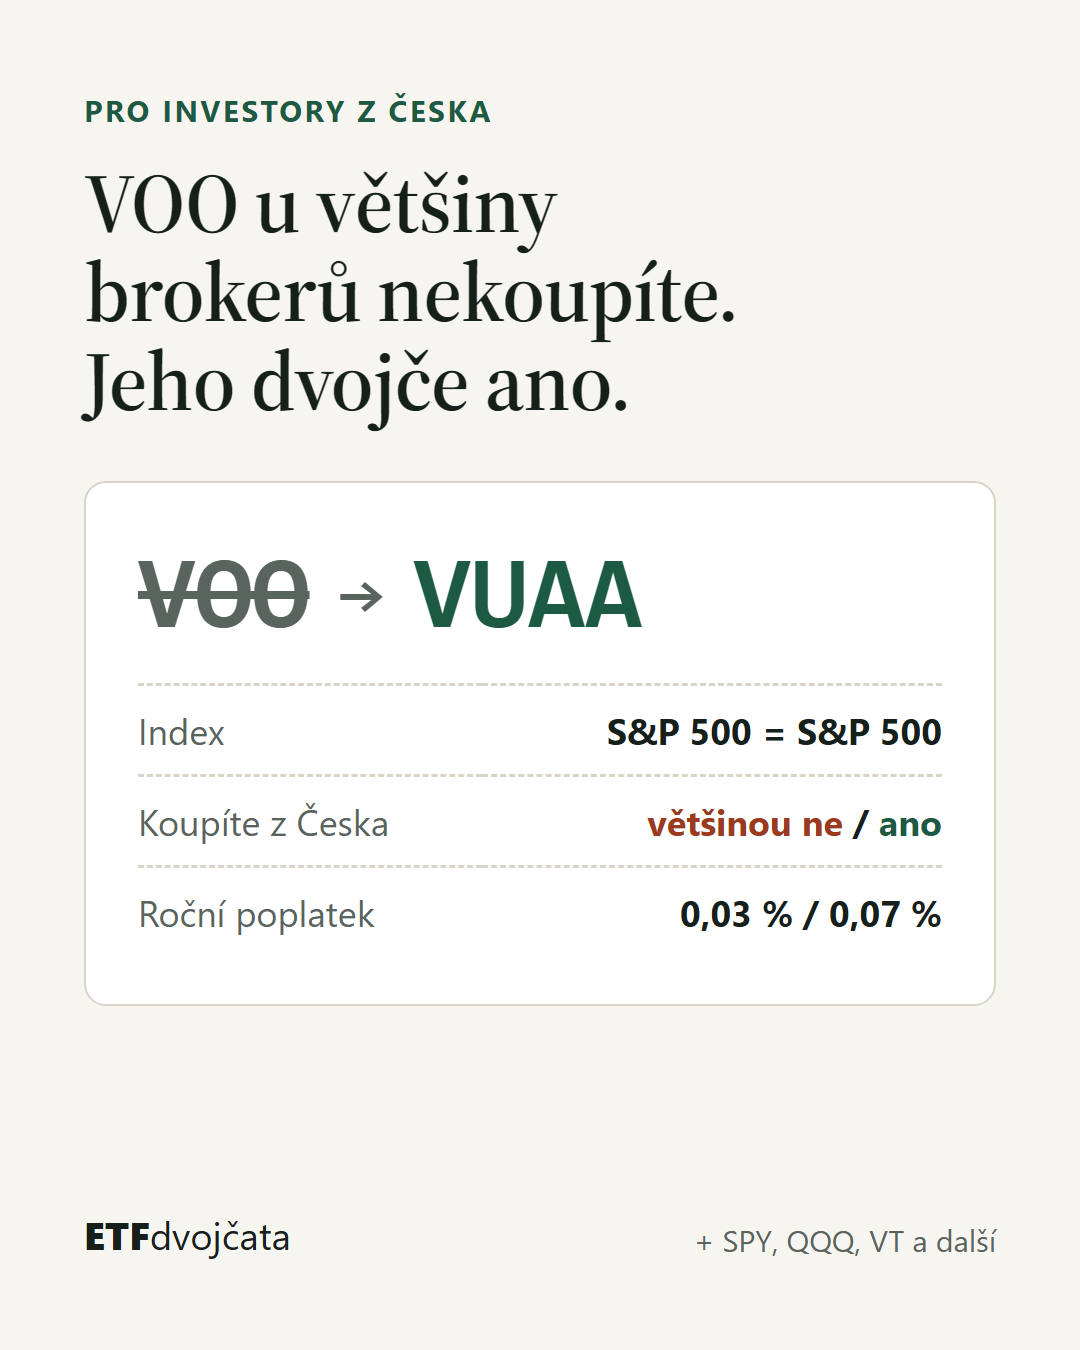
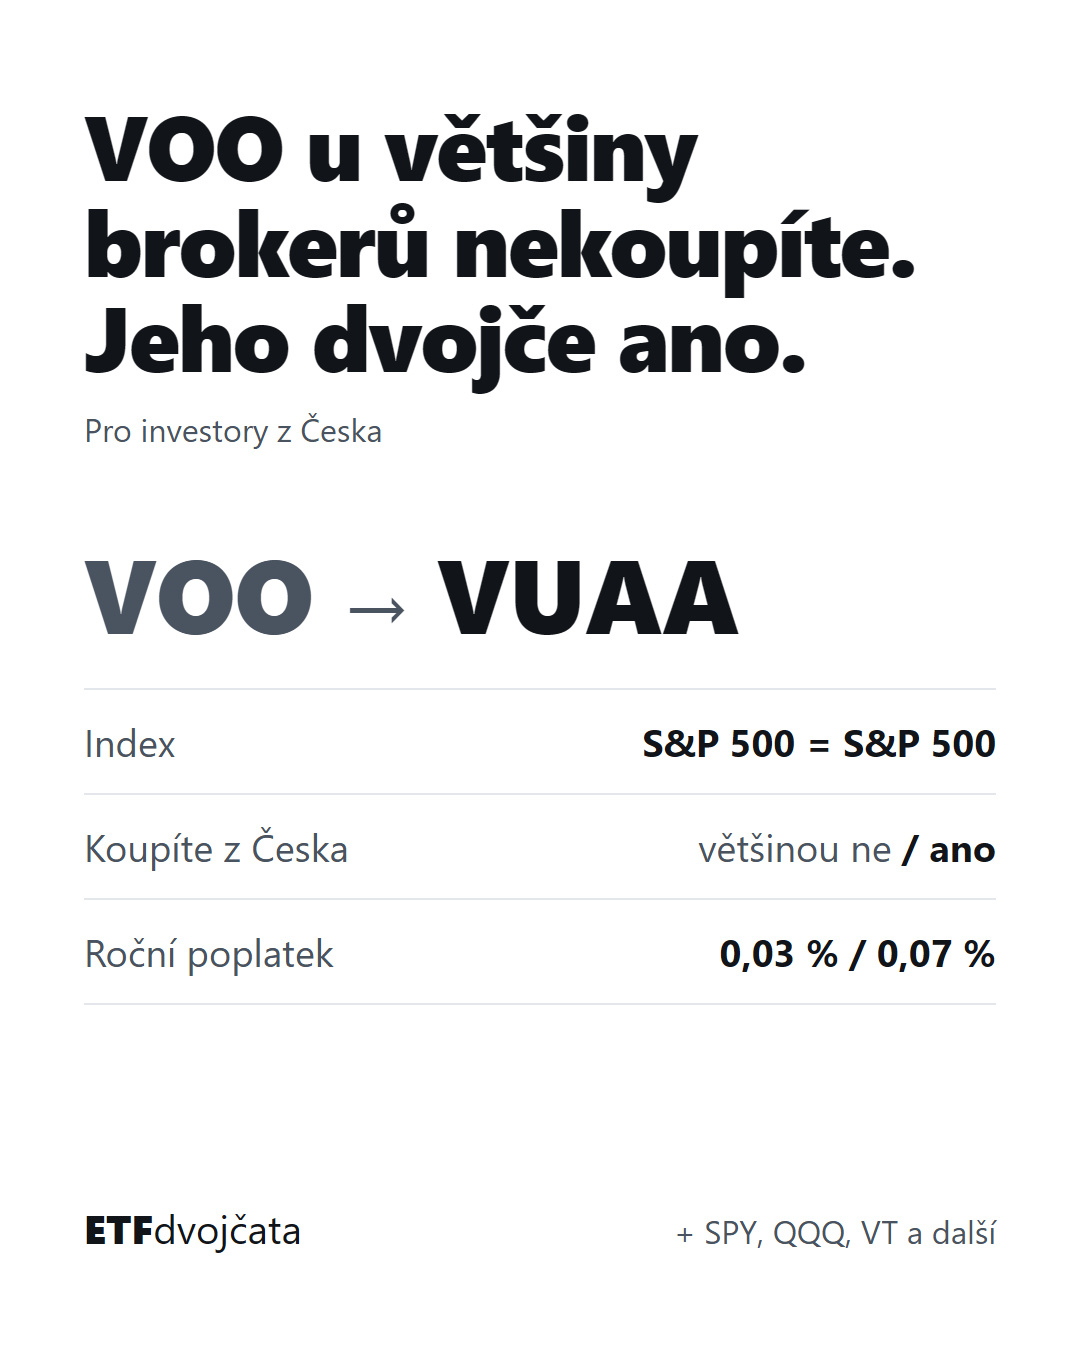
Re-render both ad creatives in the page's new look
White background, system sans at 800, ink and muted only; #c2410c only
for the bank-fund figure and bar in ad B, ink for the ETF. No serif, no
uppercase green eyebrow, no strikethrough. Same copy, numbers and
footnotes. ad-a.md and ad-b.md describe the new styling.

diff --git a/ads/ad-a.html b/ads/ad-a.html
@@ -3,37 +3,34 @@
 <head>
 <meta charset="utf-8">
 <title>Ad A creative 1080x1350</title>
-<link rel="stylesheet" href="https://fonts.googleapis.com/css2?family=Source+Serif+4:opsz,wght@8..60,600&display=block">
 <style>
+  /* Same visual system as the page: white, system sans, ink + muted, no accent colour needed here. */
   html, body { margin: 0; width: 1080px; height: 1350px; }
-  body { background: #f7f5f0; color: #15201b; font-family: system-ui, "Segoe UI", sans-serif; display: flex; flex-direction: column; padding: 90px 84px; box-sizing: border-box; }
-  .kicker { font-size: 30px; font-weight: 700; letter-spacing: .08em; text-transform: uppercase; color: #1d5a44; margin: 0 0 28px; }
-  h1 { font-family: "Source Serif 4", Georgia, serif; font-weight: 600; font-size: 84px; line-height: 1.06; letter-spacing: -0.01em; margin: 0 0 56px; text-wrap: balance; }
-  .card { background: #fff; border: 2px solid #d9d4c8; border-radius: 22px; padding: 48px 52px; }
-  .swap { display: flex; align-items: center; gap: 30px; font: 700 104px ui-monospace, Consolas, monospace; margin-bottom: 30px; }
-  .from { color: #59645e; text-decoration: line-through; text-decoration-thickness: 8px; }
-  .arrow { color: #59645e; font-weight: 400; font-size: 80px; }
-  .to { color: #1d5a44; }
-  table { width: 100%; border-collapse: collapse; font-size: 36px; }
-  th, td { padding: 20px 0; border-top: 3px dashed #d9d4c8; text-align: left; }
-  th { color: #59645e; font-weight: 400; }
+  body { background: #ffffff; color: #111418; font-family: system-ui, -apple-system, "Segoe UI", Roboto, "Helvetica Neue", Arial, sans-serif; font-variant-numeric: tabular-nums; display: flex; flex-direction: column; padding: 96px 84px; box-sizing: border-box; }
+  h1 { font-weight: 800; font-size: 92px; line-height: 1.04; letter-spacing: -0.025em; margin: 0 0 24px; text-wrap: balance; }
+  .meta { font-size: 32px; color: #4a5360; margin: 0 0 72px; }
+  .swap { display: flex; align-items: baseline; gap: 28px; font-weight: 800; font-size: 104px; letter-spacing: -0.01em; margin-bottom: 28px; }
+  .from { color: #4a5360; }
+  .arrow { color: #4a5360; font-weight: 400; font-size: 80px; }
+  table { width: 100%; border-collapse: collapse; font-size: 38px; }
+  th, td { padding: 26px 0; border-top: 2px solid #e3e7ec; text-align: left; }
+  tr:last-child th, tr:last-child td { border-bottom: 2px solid #e3e7ec; }
+  th { color: #4a5360; font-weight: 400; }
   td { font-weight: 700; text-align: right; }
-  .no { color: #9b3a1c; } .yes { color: #1d5a44; }
-  .foot { margin-top: auto; display: flex; justify-content: space-between; align-items: flex-end; font-size: 30px; color: #59645e; }
-  .logo { font-weight: 800; color: #15201b; font-size: 38px; } .logo span { font-weight: 400; }
+  .no { color: #4a5360; font-weight: 400; }
+  .foot { margin-top: auto; display: flex; justify-content: space-between; align-items: baseline; font-size: 32px; color: #4a5360; }
+  .logo { font-weight: 800; color: #111418; font-size: 40px; } .logo span { font-weight: 400; }
 </style>
 </head>
 <body>
-  <p class="kicker">Pro investory z Česka</p>
   <h1>VOO u většiny brokerů nekoupíte. Jeho dvojče ano.</h1>
-  <div class="card">
-    <div class="swap"><span class="from">VOO</span><span class="arrow">→</span><span class="to">VUAA</span></div>
-    <table>
-      <tr><th>Index</th><td>S&amp;P 500 = S&amp;P 500</td></tr>
-      <tr><th>Koupíte z Česka</th><td><span class="no">většinou ne</span> / <span class="yes">ano</span></td></tr>
-      <tr><th>Roční poplatek</th><td>0,03 % / 0,07 %</td></tr>
-    </table>
-  </div>
+  <p class="meta">Pro investory z Česka</p>
+  <div class="swap"><span class="from">VOO</span><span class="arrow">→</span><span class="to">VUAA</span></div>
+  <table>
+    <tr><th>Index</th><td>S&amp;P 500 = S&amp;P 500</td></tr>
+    <tr><th>Koupíte z Česka</th><td><span class="no">většinou ne</span> / ano</td></tr>
+    <tr><th>Roční poplatek</th><td>0,03 % / 0,07 %</td></tr>
+  </table>
   <div class="foot"><span class="logo">ETF<span>dvojčata</span></span><span>+ SPY, QQQ, VT a další</span></div>
 </body>
 </html>

diff --git a/ads/ad-b.html b/ads/ad-b.html
@@ -3,27 +3,27 @@
 <head>
 <meta charset="utf-8">
 <title>Ad B creative 1080x1350</title>
-<link rel="stylesheet" href="https://fonts.googleapis.com/css2?family=Source+Serif+4:opsz,wght@8..60,600&display=block">
 <style>
+  /* Same visual system as the page: white, system sans, #c2410c only for the bank-fund figure and bar, ink for the ETF. */
   html, body { margin: 0; width: 1080px; height: 1350px; }
-  body { background: #f7f5f0; color: #15201b; font-family: system-ui, "Segoe UI", sans-serif; display: flex; flex-direction: column; padding: 90px 84px; box-sizing: border-box; }
-  .kicker { font-size: 30px; font-weight: 700; letter-spacing: .08em; text-transform: uppercase; color: #1d5a44; margin: 0 0 28px; }
-  h1 { font-family: "Source Serif 4", Georgia, serif; font-weight: 600; font-size: 80px; line-height: 1.08; margin: 0 0 70px; }
-  .row { margin-bottom: 56px; }
+  body { background: #ffffff; color: #111418; font-family: system-ui, -apple-system, "Segoe UI", Roboto, "Helvetica Neue", Arial, sans-serif; font-variant-numeric: tabular-nums; display: flex; flex-direction: column; padding: 96px 84px; box-sizing: border-box; }
+  h1 { font-weight: 800; font-size: 96px; line-height: 1.04; letter-spacing: -0.025em; margin: 0 0 40px; text-wrap: balance; }
+  .label { font-size: 32px; font-weight: 600; color: #4a5360; margin: 0 0 40px; }
+  .row { margin-bottom: 52px; }
   .lbl { display: flex; justify-content: space-between; align-items: baseline; font-size: 40px; margin-bottom: 18px; }
-  .lbl strong { font-size: 64px; font-variant-numeric: tabular-nums; }
-  .track { height: 64px; background: #ebe7de; border-radius: 10px; overflow: hidden; }
-  .fill { height: 100%; border-radius: 10px; }
-  .bank strong { color: #9b3a1c; } .bank .fill { background: #9b3a1c; width: 100%; }
-  .etf strong { color: #1d5a44; } .etf .fill { background: #1d5a44; width: 4.1%; }
-  .note { font-size: 28px; color: #59645e; line-height: 1.4; margin: 10px 0 0; }
-  .foot { margin-top: auto; display: flex; justify-content: space-between; align-items: flex-end; font-size: 30px; color: #59645e; }
-  .logo { font-weight: 800; color: #15201b; font-size: 38px; } .logo span { font-weight: 400; }
+  .lbl strong { font-size: 84px; font-weight: 800; letter-spacing: -0.02em; line-height: 1; }
+  .track { height: 28px; background: #e3e7ec; border-radius: 4px; overflow: hidden; }
+  .fill { height: 100%; border-radius: 4px; }
+  .bank strong { color: #c2410c; } .bank .fill { background: #c2410c; width: 100%; }
+  .etf strong { color: #111418; } .etf .fill { background: #111418; width: 4.13%; }
+  .note { font-size: 28px; color: #4a5360; line-height: 1.45; margin: 8px 0 0; }
+  .foot { margin-top: auto; display: flex; justify-content: space-between; align-items: baseline; font-size: 32px; color: #4a5360; }
+  .logo { font-weight: 800; color: #111418; font-size: 40px; } .logo span { font-weight: 400; }
 </style>
 </head>
 <body>
-  <p class="kicker">Poplatky za 20 let při 3&nbsp;000&nbsp;Kč měsíčně</p>
   <h1>Kolik vám z investice sní poplatky?</h1>
+  <p class="label">Poplatky za 20 let při 3&nbsp;000&nbsp;Kč měsíčně</p>
   <div class="row bank">
     <div class="lbl"><span>Bankovní akciový fond</span><strong>312&nbsp;200&nbsp;Kč</strong></div>
     <div class="track"><div class="fill"></div></div>

diff --git a/ads/ad-b.md b/ads/ad-b.md
@@ -28,10 +28,10 @@
 
 [`ad-b.png`](ad-b.png), source: [`ad-b.html`](ad-b.html)
 
-**Concept:** two horizontal bars on paper background.
-- A long rust bar, "Bankovní fond 312 200 Kč".
-- A tiny green bar, "Indexové ETF 12 900 Kč".
-- Title: "Poplatky za 20 let při 3 000 Kč měsíčně"; footnote with the assumption.
+**Concept:** two horizontal bars on a white background, in the page's visual system (system sans at 800, no serif). The layout mirrors the `?v=b` hero.
+- A full-width bar in `#c2410c`, "Bankovní akciový fond 312 200 Kč". This orange is used only for the bank-fund figure and its bar.
+- A to-scale ink (`#111418`) bar, 4.13 % of the width, "Indexové ETF 12 900 Kč".
+- Label under the headline: "Poplatky za 20 let při 3 000 Kč měsíčně"; footnote with the assumption.
 - The visual gap between the bars is the whole message.
 
 ## Link

diff --git a/ads/ad-a.md b/ads/ad-a.md
@@ -20,8 +20,8 @@ The first ~125 characters (what shows before "…více") carry the hook and the 
 
 [`ad-a.png`](ad-a.png), source: [`ad-a.html`](ad-a.html)
 
-**Concept:** a bank-statement card, the same visual system as the page.
-- "VOO" is struck through, with a green "VUAA" next to it.
+**Concept:** the page's visual system: white background, system sans at 800 for the headline, ink `#111418` and muted `#4a5360`, thin rules instead of cards.
+- "VOO" in muted grey, then an arrow, then "VUAA" in ink. No strikethrough and no accent colour.
 - Three rows: "Index: S&P 500 = S&P 500", "Koupíte z Česka: ne / ano", "Poplatek: 0,03 % / 0,07 %".
 - Showing that the twin is a bit more expensive is deliberate. It is honest, and it pre-empts the comment "but VUAA costs more".
 
